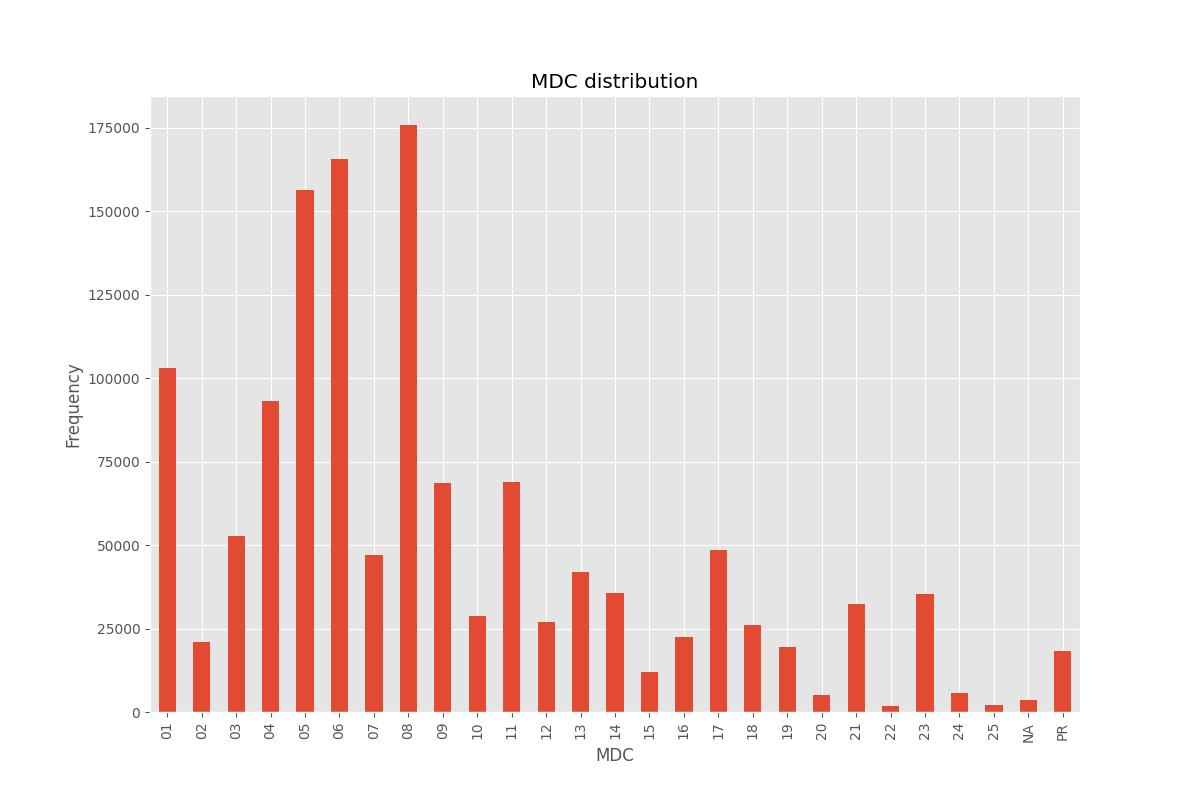
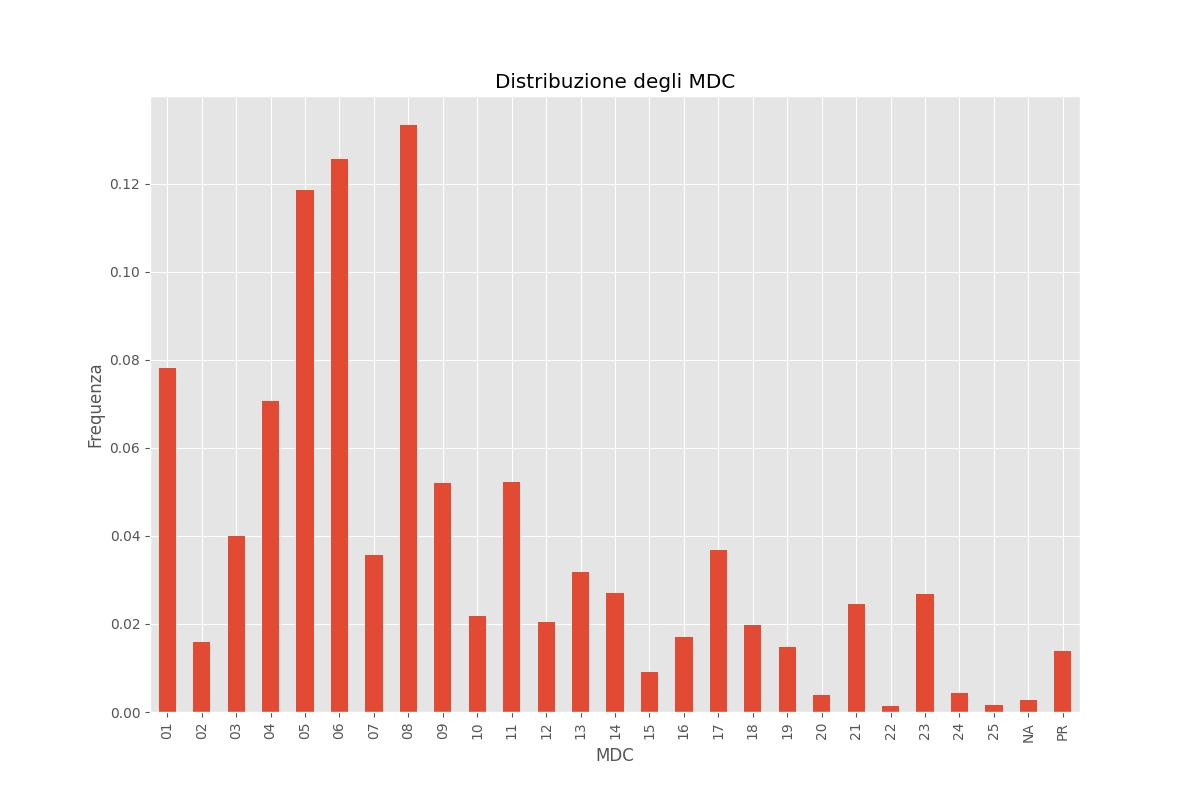
- added Strutture distributions - improved MDC distributions

diff --git a/distribuzioni/Strutture/__init__.py b/distribuzioni/Strutture/__init__.py
@@ -1,0 +1,69 @@
+import os
+from os import path
+
+import matplotlib
+import matplotlib.pyplot as plt
+import pandas as pd
+
+matplotlib.rcParams['figure.figsize'] = (50, 20)
+matplotlib.style.use('ggplot')
+cwd = path.dirname(path.abspath(__file__))
+
+
+def get_dataset(*columns: str):
+    df = pd.read_csv("../../dataset/Dataset_SDO_Regione_Lombardia.csv", dtype=str)
+    df = df[["CODICE MDC", "DESCRIZIONE MDC", *columns]]
+    missing = df["CODICE MDC"].isna()
+    df.loc[missing, "CODICE MDC"] = df.loc[missing, "DESCRIZIONE MDC"].map({
+        "MDC NON APPLICABILE": "NA",
+        "PREMDC (DRG SENZA SPECIFICA MDC)": "PR",
+    })
+    mdcs = df[["CODICE MDC", "DESCRIZIONE MDC"]].value_counts(sort=False).to_frame("count") \
+        .reset_index(level="DESCRIZIONE MDC").drop("#").sort_index().reset_index().drop("count", axis=1)
+    return df, mdcs
+
+
+def plot_data(data: pd.DataFrame, mdc: str, descrizione_mdc: str):
+    data = data.value_counts(sort=False).to_frame("CONTEGGIO")
+    data = data.reset_index()
+    data = data.groupby(["CODICE STRUTTURA DI RICOVERO"], as_index=False).agg({
+        "CODICE STRUTTURA DI RICOVERO": "last",
+        "DESCRIZIONE STRUTTURA DI RICOVERO": "last",
+        "CONTEGGIO": "sum",
+    })
+    data = data.set_index("CODICE STRUTTURA DI RICOVERO").sort_index()
+    freq = data["FREQUENZA"] = data["CONTEGGIO"] / data["CONTEGGIO"].sum()
+
+    os.makedirs(f"MDC_{mdc}", exist_ok=True)
+    # Display
+    fig, ax = plt.subplots(1, 1)
+    freq.plot(kind='bar', ax=ax)
+    ax.set_title(f"Distribuzione tra le strutture dell\'MDC {mdc} ({descrizione_mdc})")
+    ax.set_xlabel("CODICE STRUTTURA DI RICOVERO")
+    ax.set_ylabel("Frequenza")
+    plt.savefig(path.join(cwd, f"MDC_{mdc}", "StruttureDistribution.jpg"))
+
+    # Display2
+    fig, ax = plt.subplots(1, 1)
+    ax.set_yscale('log')
+    freq.plot(kind='bar', ax=ax)
+    ax.set_title(f"Distribuzione tra le strutture dell\'MDC {mdc} ({descrizione_mdc})")
+    ax.set_xlabel("CODICE STRUTTURA DI RICOVERO")
+    ax.set_ylabel("Frequenza")
+    plt.savefig(path.join(cwd, f"MDC_{mdc}", "StruttureDistributionLOG.jpg"))
+
+    # Export CSV
+    data.to_csv(path.join(cwd, f"MDC_{mdc}", "StruttureDistribution.csv"), float_format="%.15f", encoding="utf-8")
+
+
+def main():
+    df, mdcs = get_dataset("CODICE STRUTTURA DI RICOVERO", "DESCRIZIONE STRUTTURA DI RICOVERO")
+    for i, mdc in mdcs.iterrows():
+        codice, descrizione = mdc["CODICE MDC"], mdc["DESCRIZIONE MDC"]
+        print(i + 1, codice, descrizione)
+        df_mdc = df[df["CODICE MDC"] == codice].drop(["CODICE MDC", "DESCRIZIONE MDC"], axis=1)
+        plot_data(df_mdc, codice, descrizione)
+
+
+if __name__ == '__main__':
+    main()

diff --git a/distribuzioni/Issues_MDC/__init__.py b/distribuzioni/Issues_MDC/__init__.py
@@ -8,40 +8,38 @@ matplotlib.style.use('ggplot')
 
 def get_dataset():
     df = pd.read_csv("../../dataset/Dataset_SDO_Regione_Lombardia.csv", dtype=str)
-    df = df[["CODICE MDC", "DESCRIZIONE MDC"]].astype("string").fillna("NA")
+    df = df[["CODICE MDC", "DESCRIZIONE MDC"]]
+    missing = df["CODICE MDC"].isna()
+    df.loc[missing, "CODICE MDC"] = df.loc[missing, "DESCRIZIONE MDC"].map({
+        "MDC NON APPLICABILE": "NA",
+        "PREMDC (DRG SENZA SPECIFICA MDC)": "PR",
+    })
     return df
 
 
 def plot_data(data: pd.DataFrame):
-    data = data.value_counts(sort=False).to_frame("count").reset_index(level="DESCRIZIONE MDC").drop(
-        "#").sort_index().reset_index()
-    data = data.groupby(["DESCRIZIONE MDC"], as_index=False).agg({
-        "CODICE MDC": "last",
-        "DESCRIZIONE MDC": "last",
-        "count": "sum",
-    })
-    data = data.set_index("CODICE MDC").sort_index()
-    data.to_csv("MDCDistribution.csv")
-    codes = data["count"]
+    data = data.value_counts(sort=False, dropna=False).to_frame("CONTEGGIO")
+    data = data.reset_index(level="DESCRIZIONE MDC").drop("#").sort_index()
+    freq = data["FREQUENZA"] = data["CONTEGGIO"] / data["CONTEGGIO"].sum()
     # Display
     fig, ax = plt.subplots(1, 1)
-    codes.plot(kind='bar', ax=ax)
-    ax.set_title('MDC distribution')
-    ax.set_xlabel('MDC')
-    ax.set_ylabel('Frequency')
+    freq.plot(kind='bar', ax=ax)
+    ax.set_title("Distribuzione degli MDC")
+    ax.set_xlabel("MDC")
+    ax.set_ylabel("Frequenza")
     plt.savefig('MDCDistribution.jpg')
 
     # Display2
     fig, ax = plt.subplots(1, 1)
     ax.set_yscale('log')
-    codes.plot(kind='bar', ax=ax)
-    ax.set_title('MDC distribution')
-    ax.set_xlabel('MDC')
-    ax.set_ylabel('Frequency')
+    freq.plot(kind='bar', ax=ax)
+    ax.set_title("Distribuzione degli MDC")
+    ax.set_xlabel("MDC")
+    ax.set_ylabel("Frequenza")
     plt.savefig('MDCDistributionLOG.jpg')
 
     # Export CSV
-    data.to_csv("MDCDistribution.csv")
+    data.to_csv("MDCDistribution.csv", float_format="%.15f", encoding="utf-8")
 
 
 def main():
